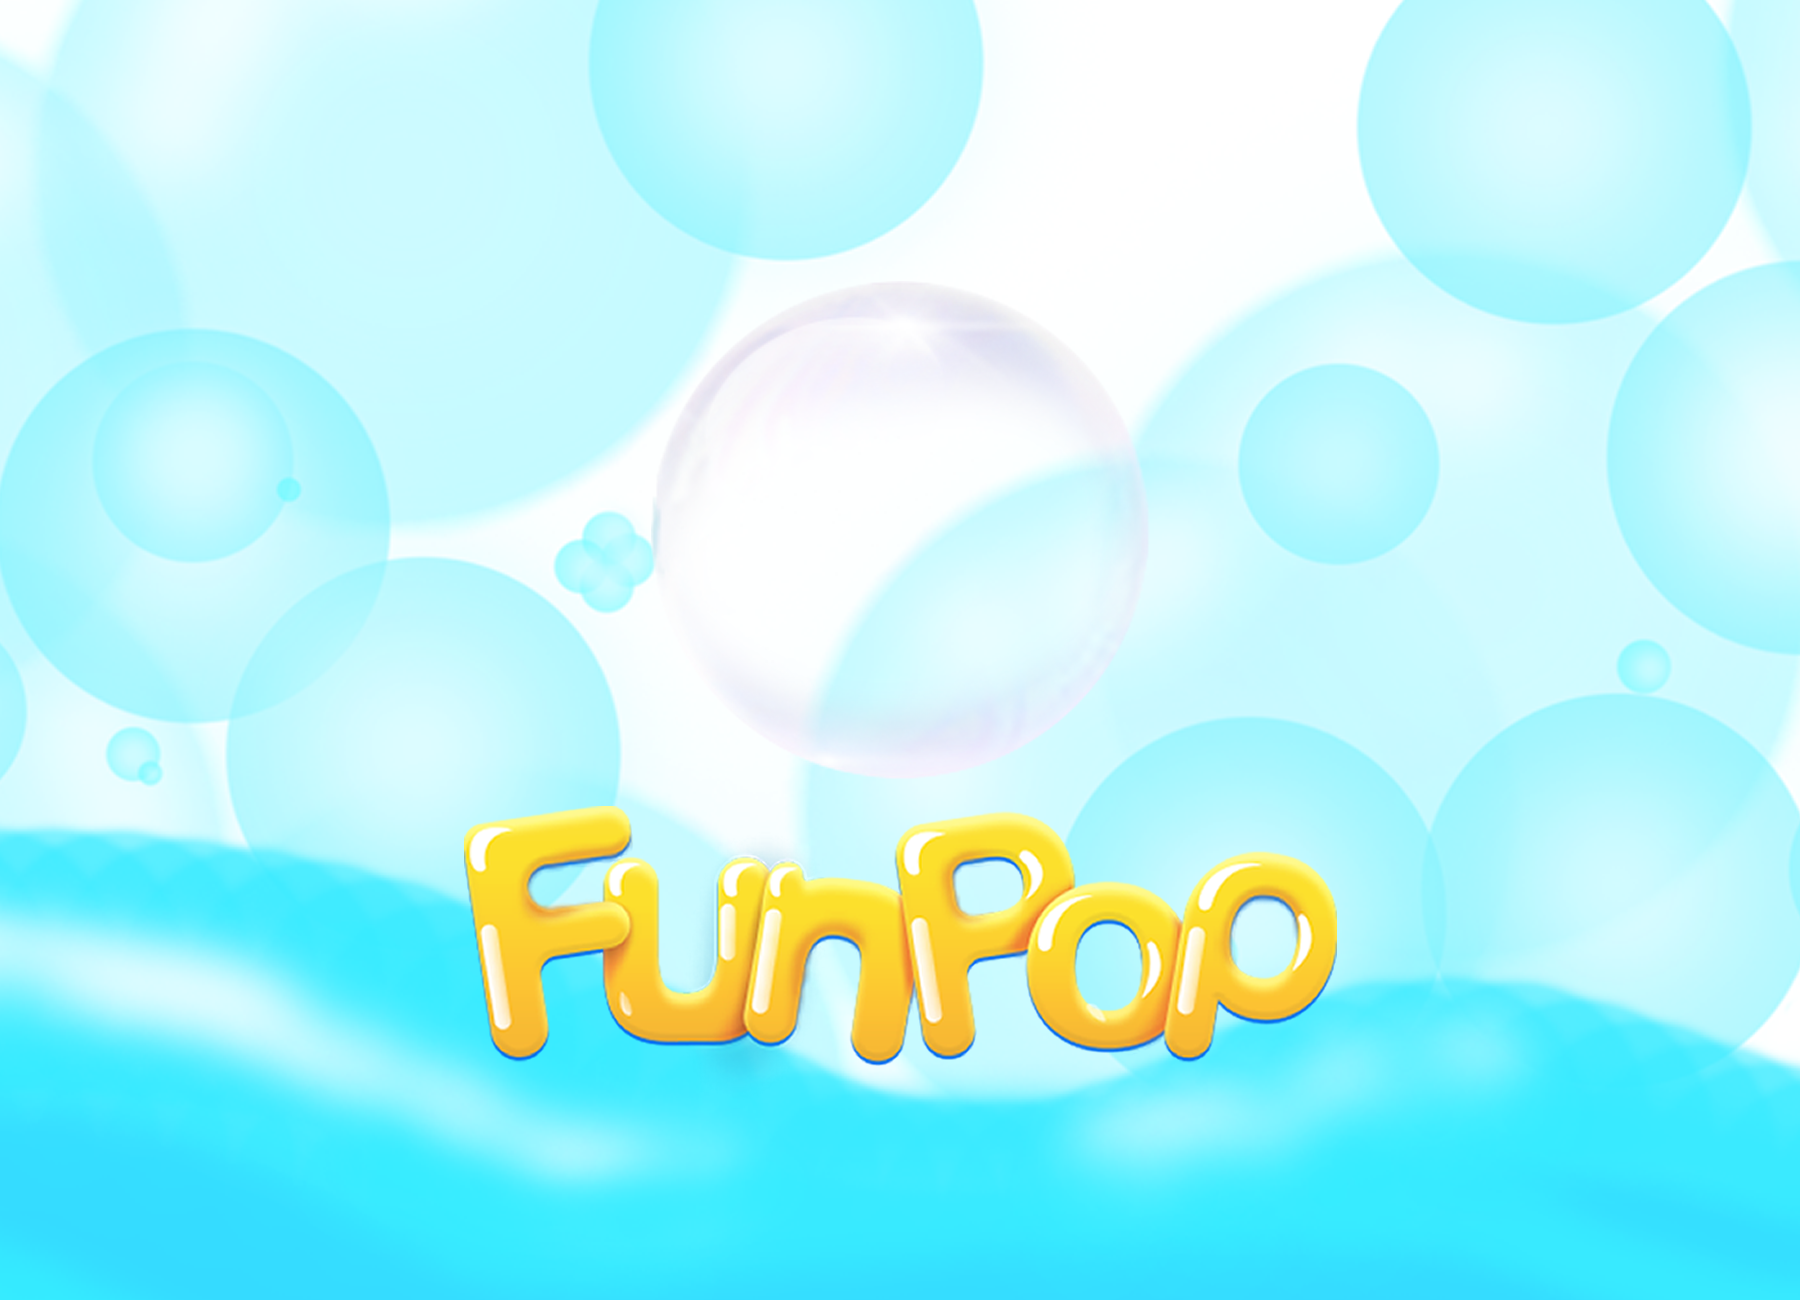
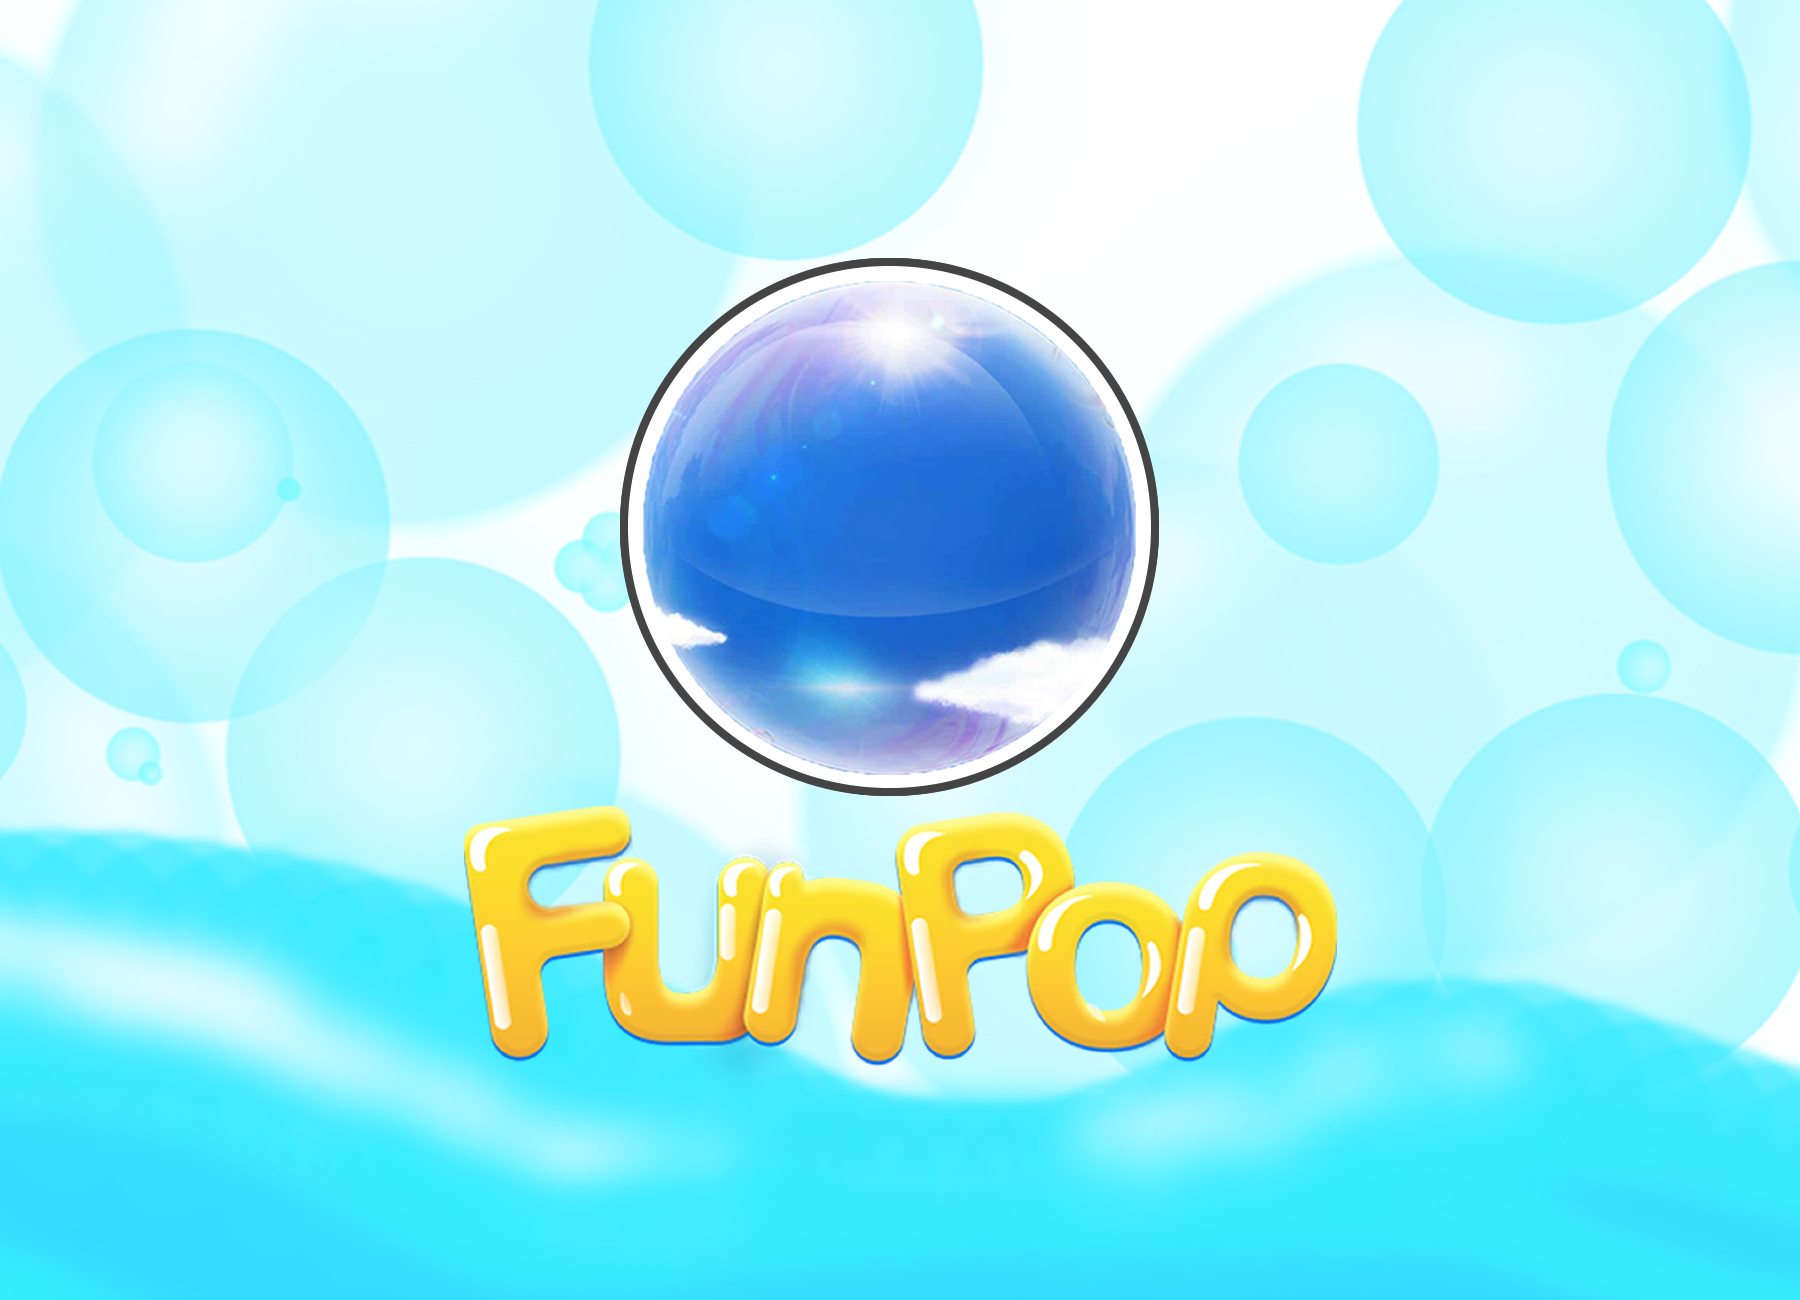
stuff

Changed region(s): [[0.3422, 0.1846, 0.6533, 0.6154]]

diff --git a/index.html b/index.html
@@ -181,7 +181,7 @@
 								<i class="fa fa-search-plus fa-3x"></i>
 							</div>
 						</div>
-						<img src="img/portfolio/submarine.png" class="img-responsive" alt="">
+						<img src="img/portfolio/funpop.png" class="img-responsive" alt="">
 					</a>
 				</div>
 			</div>
@@ -658,7 +658,7 @@
 			</div>
 		</div>
 	</div>
-	<div class="portfolio-modal modal fade" id="portfolioModal6" tabindex="-1" role="dialog" aria-hidden="true">
+		<div class="portfolio-modal modal fade" id="portfolioModal6" tabindex="-1" role="dialog" aria-hidden="true">
 		<div class="modal-content">
 			<div class="close-modal" data-dismiss="modal">
 				<div class="lr">
@@ -670,24 +670,34 @@
 				<div class="row">
 					<div class="col-lg-8 col-lg-offset-2">
 						<div class="modal-body">
-							<h2>Project Title</h2>
+							<span class="portfolio-title">FunPop</span>
+							<br />
+							<span class="portfolio-subtitle">iOS Game | June 2016</span>
 							<hr class="star-primary">
-							<img src="img/portfolio/submarine.png" class="img-responsive img-centered" alt="">
-							<p>Use this area of the page to describe your project. The icon above is part of a free icon set by <a href="https://sellfy.com/p/8Q9P/jV3VZ/">Flat Icons</a>. On their website, you can download their free set with 16 icons, or you can purchase the entire set with 146 icons for only $12!</p>
-							<ul class="list-inline item-details">
-								<li>Client:
-									<strong><a href="http://startbootstrap.com">Start Bootstrap</a>
-									</strong>
-								</li>
-								<li>Date:
-									<strong><a href="http://startbootstrap.com">April 2014</a>
-									</strong>
-								</li>
-								<li>Service:
-									<strong><a href="http://startbootstrap.com">Web Development</a>
-									</strong>
+							<img src="img/portfolio/funpop.png" class="img-responsive img-centered" alt="">
+							<p>I was brought onto the FunPop team to work on creative marketing and development for the game. I made various graphics and upgrades to the iOS apps (Standard and Plus) with no prior iOS experience.</p>
+							<br />
+							
+							<h4 class="mini-title">Links</h4>
+							<ul class="list-inline item-details link-details">
+								<li>
+									<a href="https://itunes.apple.com/us/app/funpop-burst-floating-soap/id993478732?mt=8" target="_blank">
+										<img data-toggle="tooltip" title="App Download" class="link-img" src="img/icons/appstore.png" />
+									</a>
 								</li>
 							</ul>
+							<h4 class="mini-title">Stack</h4>
+							<ul class="list-inline item-details stack-details">
+								<li>
+									<img data-toggle="tooltip" title="iOS"
+										 class="link-img" src="img/icons/ios.png" />
+								</li>
+								<li>
+									<img data-toggle="tooltip" title="Objective-C"
+										 class="link-img" src="img/icons/objectivec.png" />
+								</li>
+							</ul>
+							
 							<button type="button" class="btn btn-default" data-dismiss="modal"><i class="fa fa-times"></i> Close</button>
 						</div>
 					</div>
